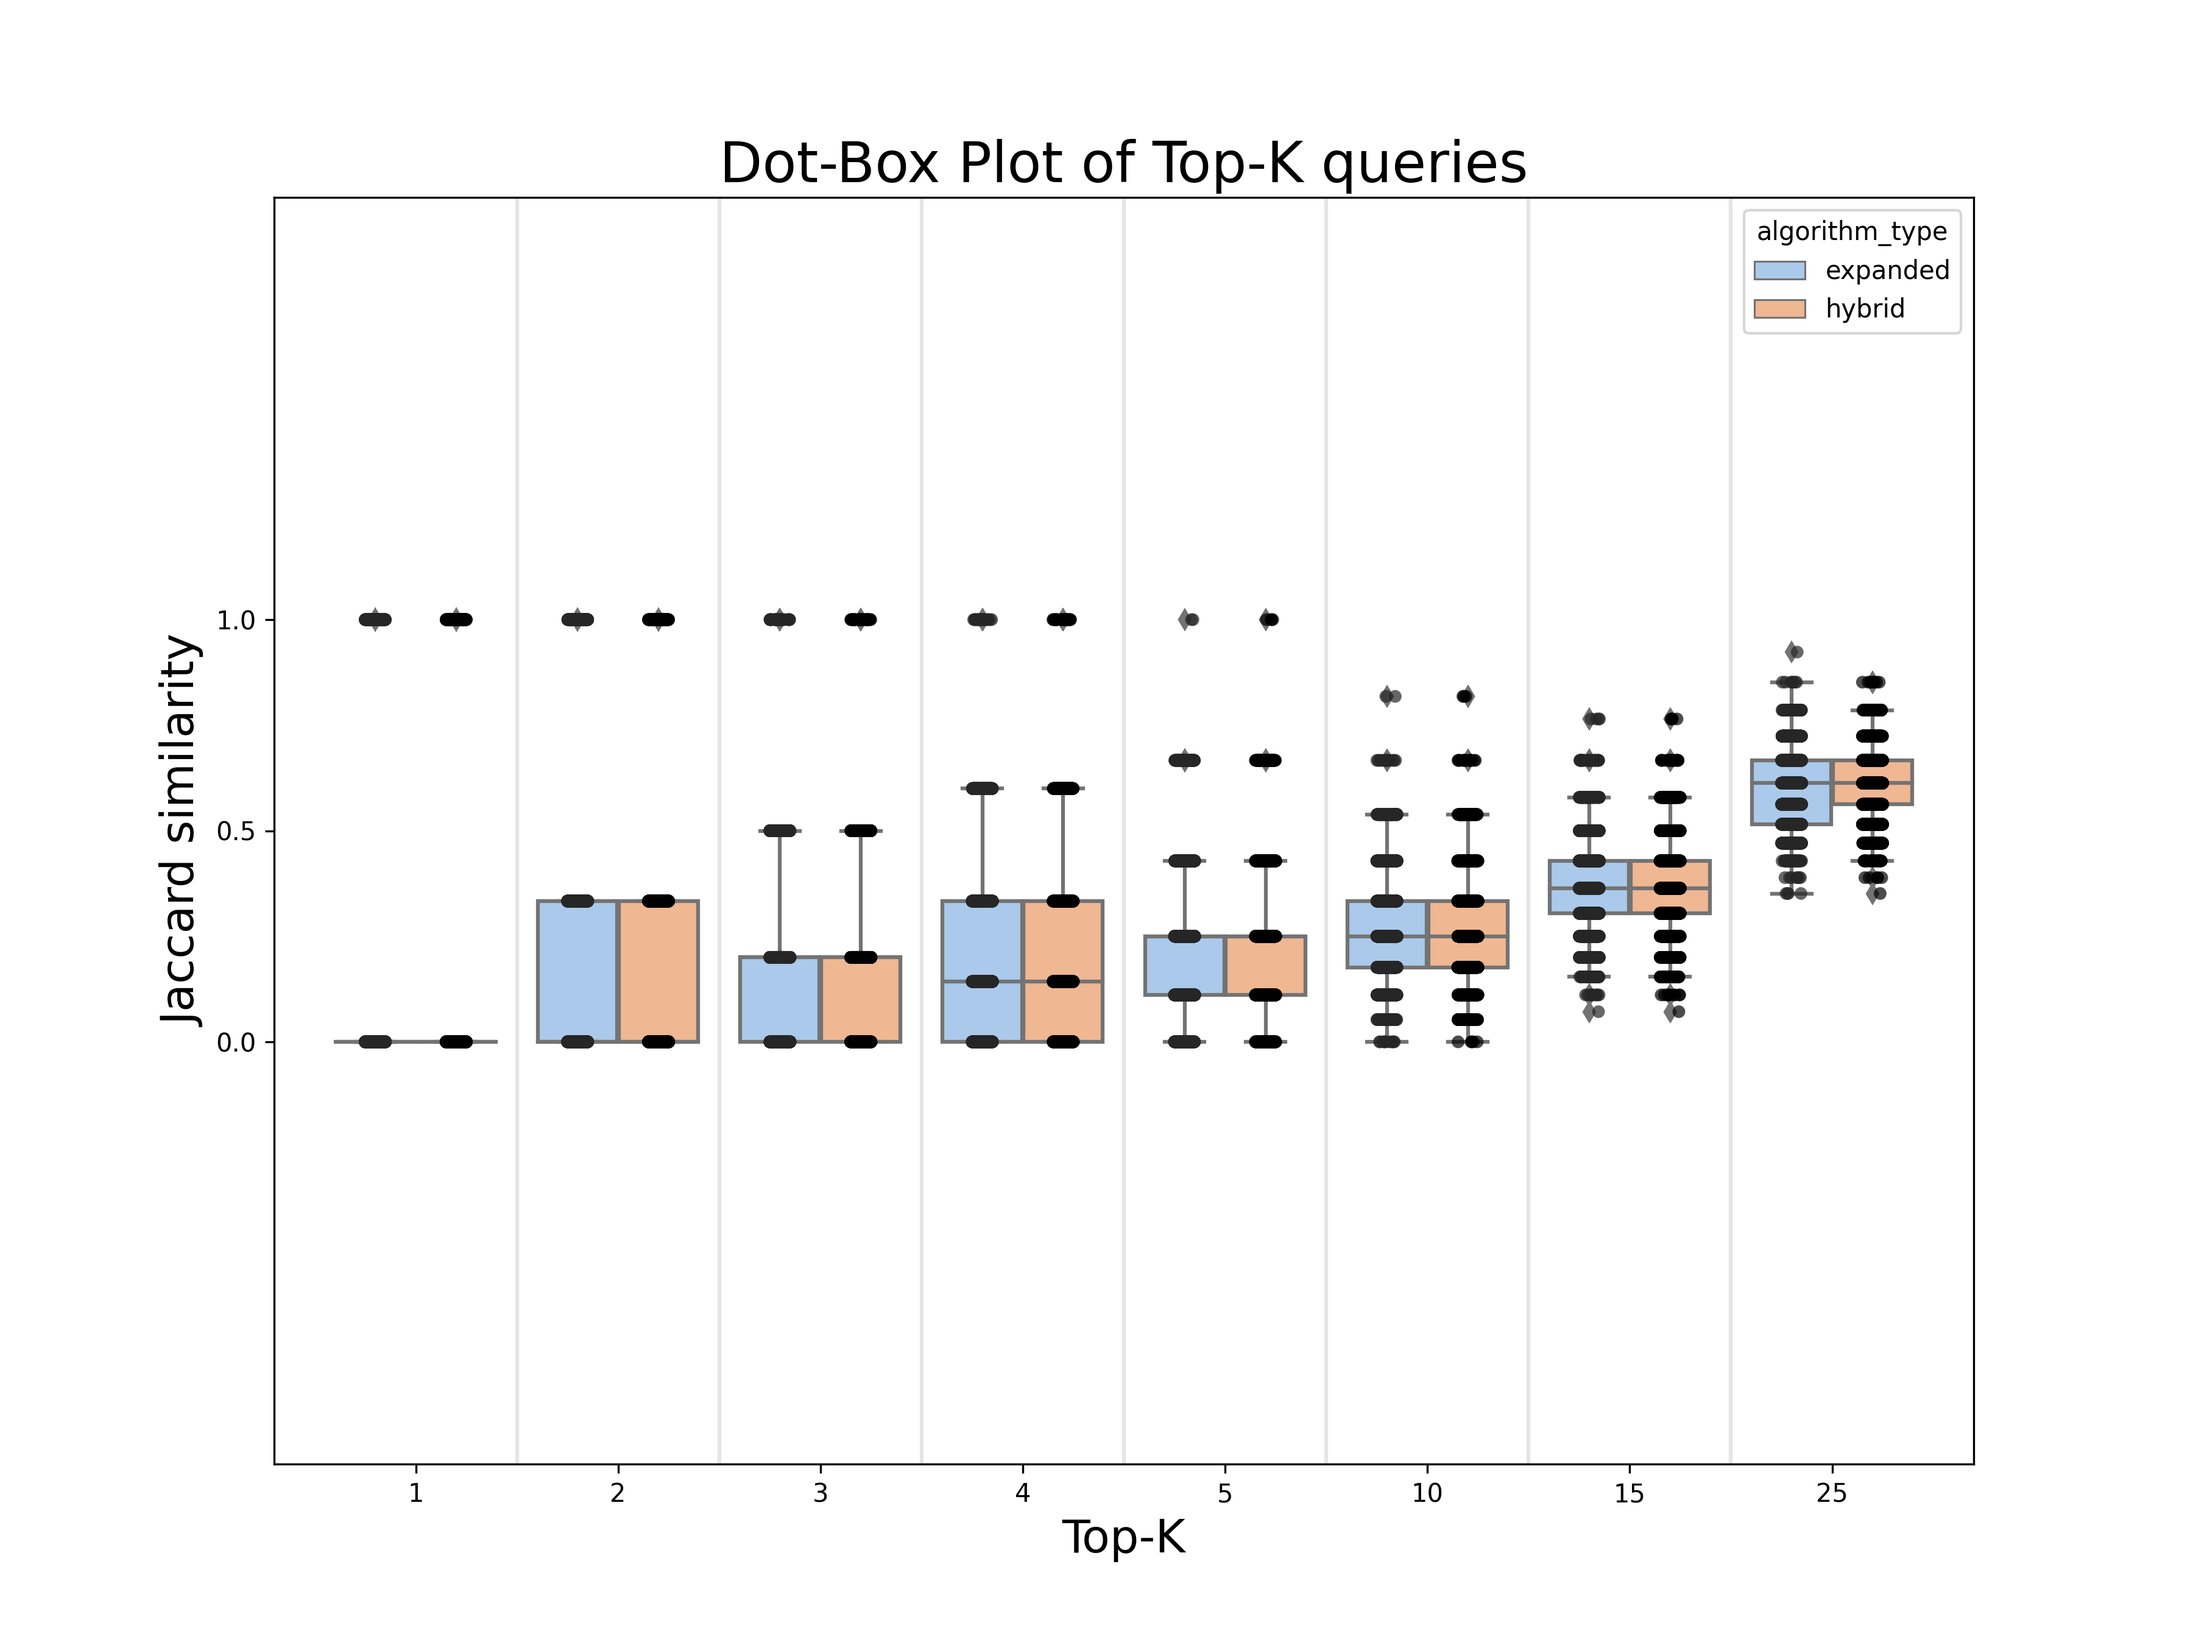
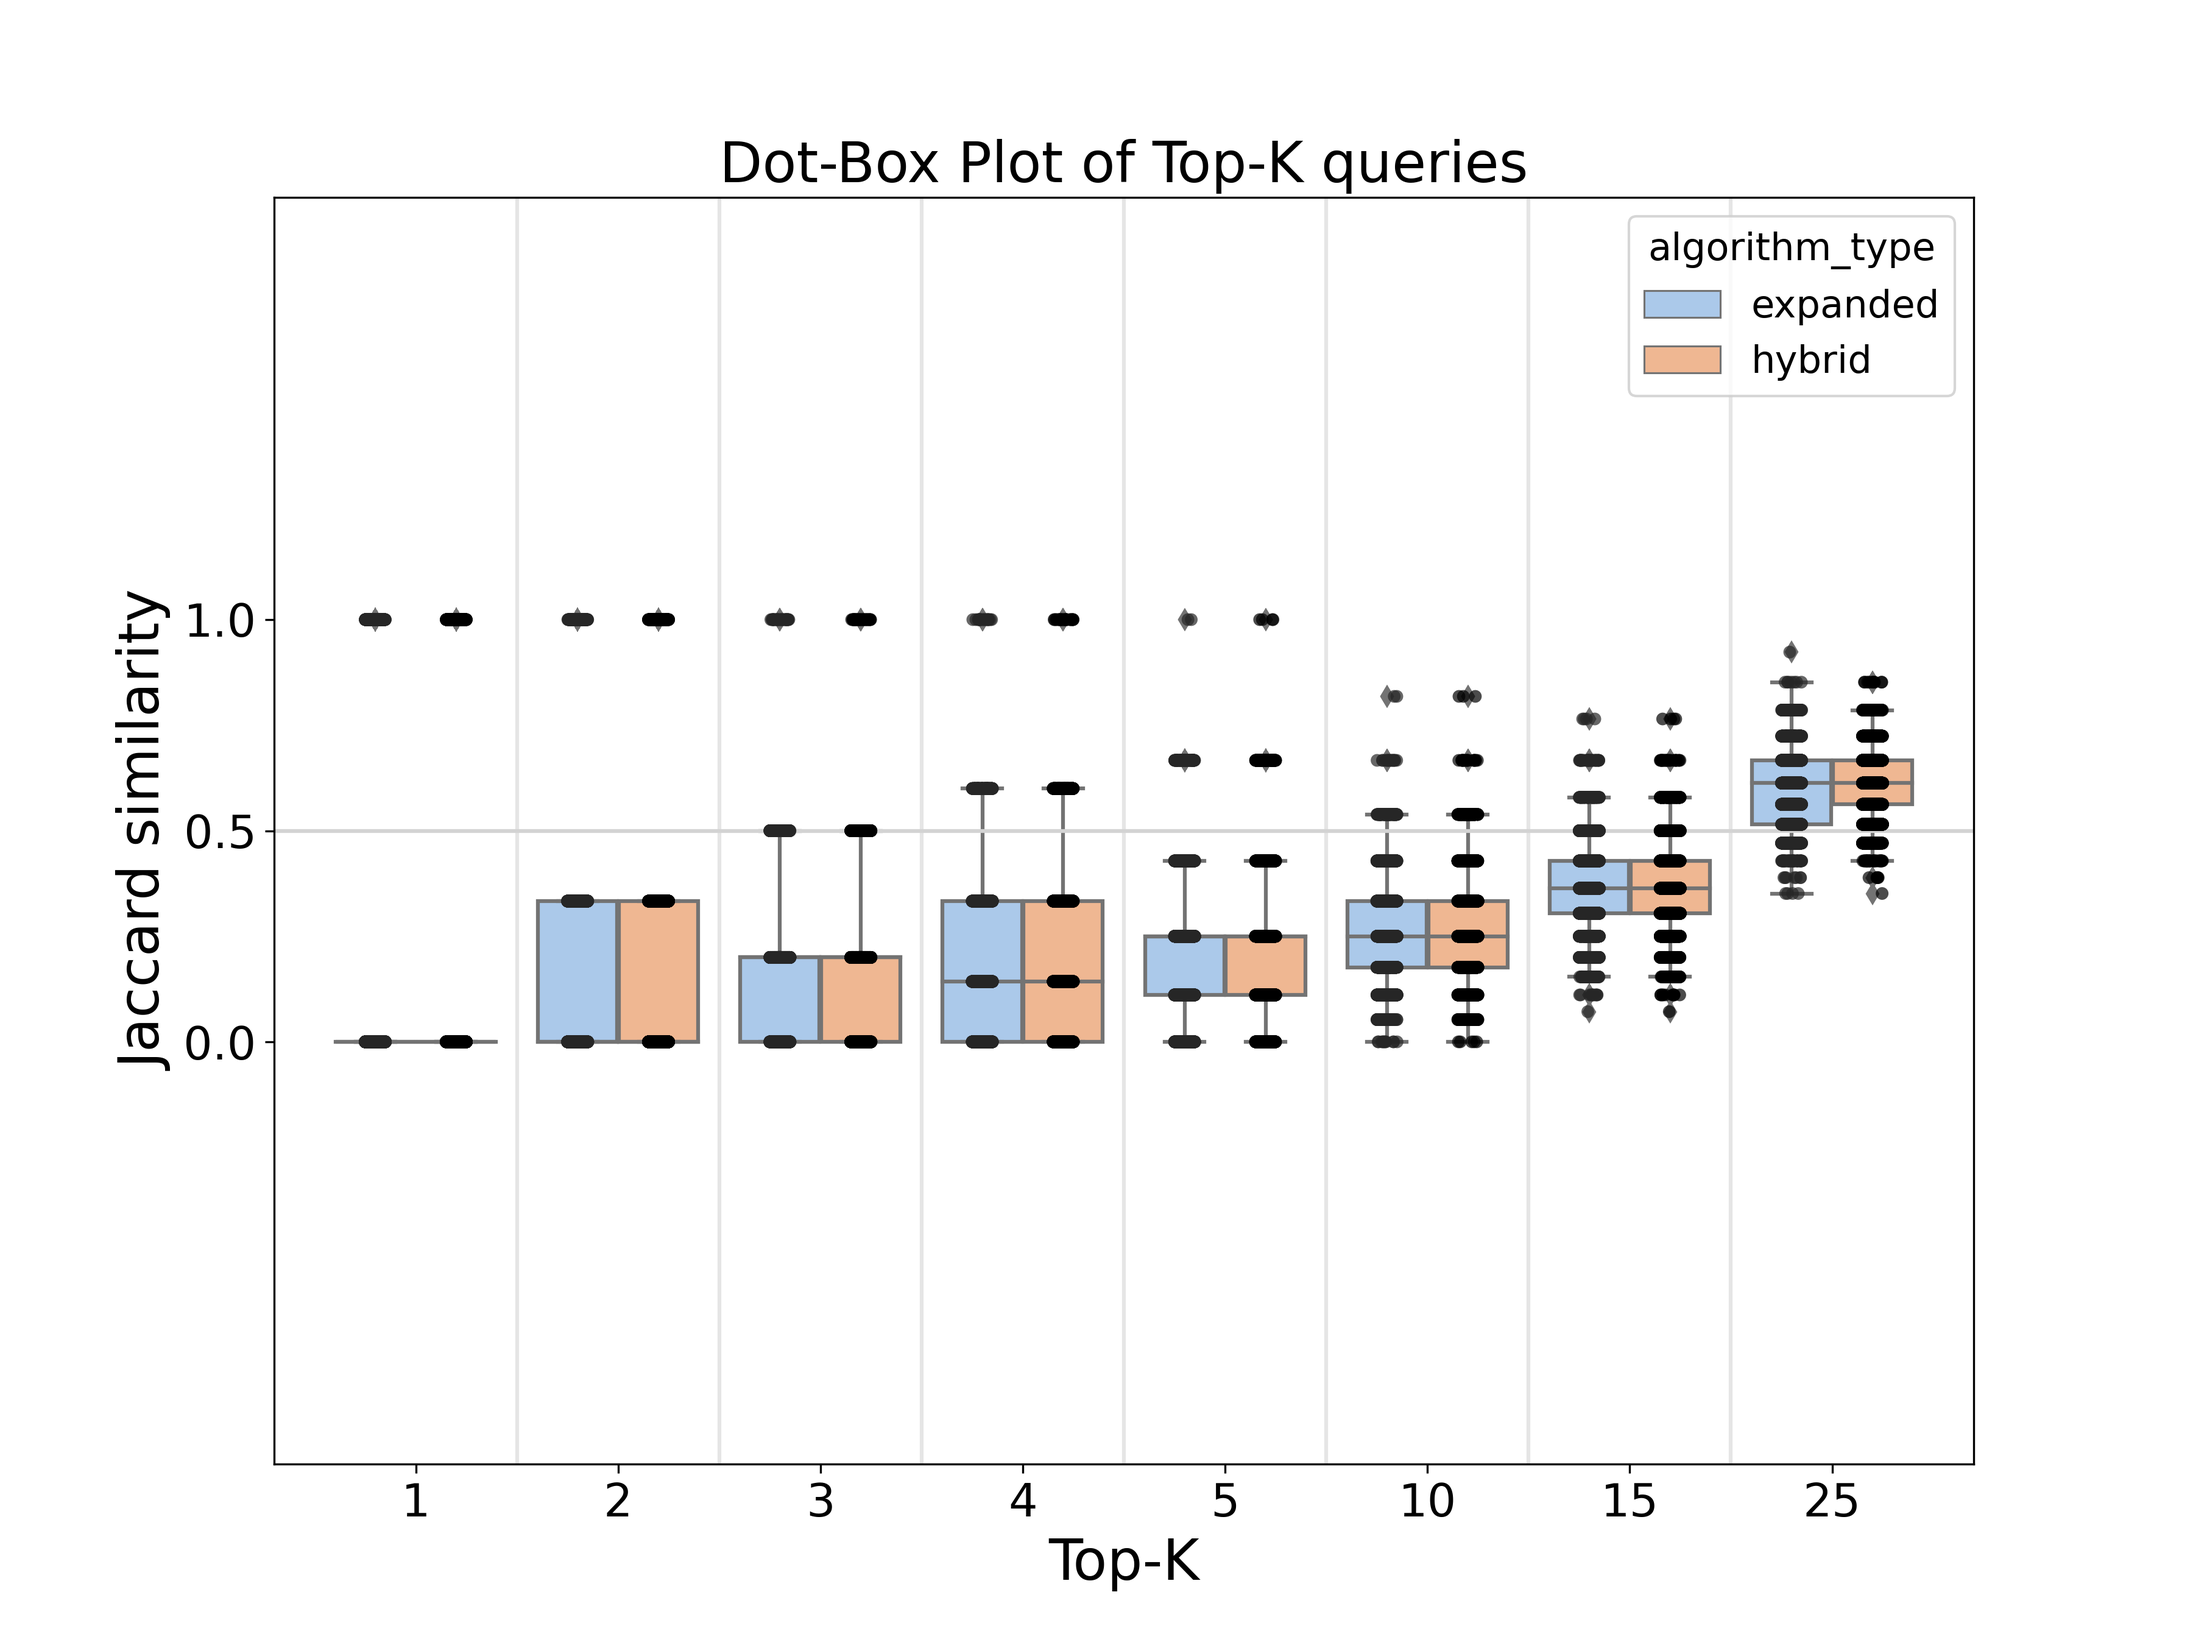
readme fix

diff --git a/src/plot_charts.py b/src/plot_charts.py
@@ -105,18 +105,25 @@ def alternative_plot_charts_topk(csv_path):
     for i in range(len(df["top_k"].unique()) - 1):
         plt.vlines(i + 0.5, -3, 45, linestyles="solid", colors="gray", alpha=0.2)
 
+    # add light grey hlines at 0.5
+    plt.axhline(y=0.5, color='lightgrey', linestyle='-')
+
     # Decorate
     plt.ylim(-1, 2)
 
     plt.gca().set_yticks([0.0, 0.5, 1.0])
     plt.title("Dot-Box Plot of Top-K queries", fontsize=22)
-    plt.xlabel("Top-K", fontsize=18)
-    plt.ylabel("Jaccard similarity", fontsize=18)
+    plt.xlabel("Top-K", fontsize=22)
+    plt.ylabel("Jaccard similarity", fontsize=22)
+
+    # set xtiks size
+    plt.xticks(fontsize=18)
+    plt.yticks(fontsize=18)
     # since we have two Seaborn plots with "hue", we'll have two legends with the same information
     # remove one of the redundant legends:
     handles, labels = mpg_stripplot.get_legend_handles_labels()
     n_classes = df["algorithm_type"].nunique()
-    plt.legend(handles[0:n_classes], labels[0:n_classes], title="algorithm_type")
+    plt.legend(handles[0:n_classes], labels[0:n_classes], title="algorithm_type", fontsize=15, title_fontsize=15)
 
     # save the chart
     plt.savefig('../data/jaccard.png', dpi=300)
